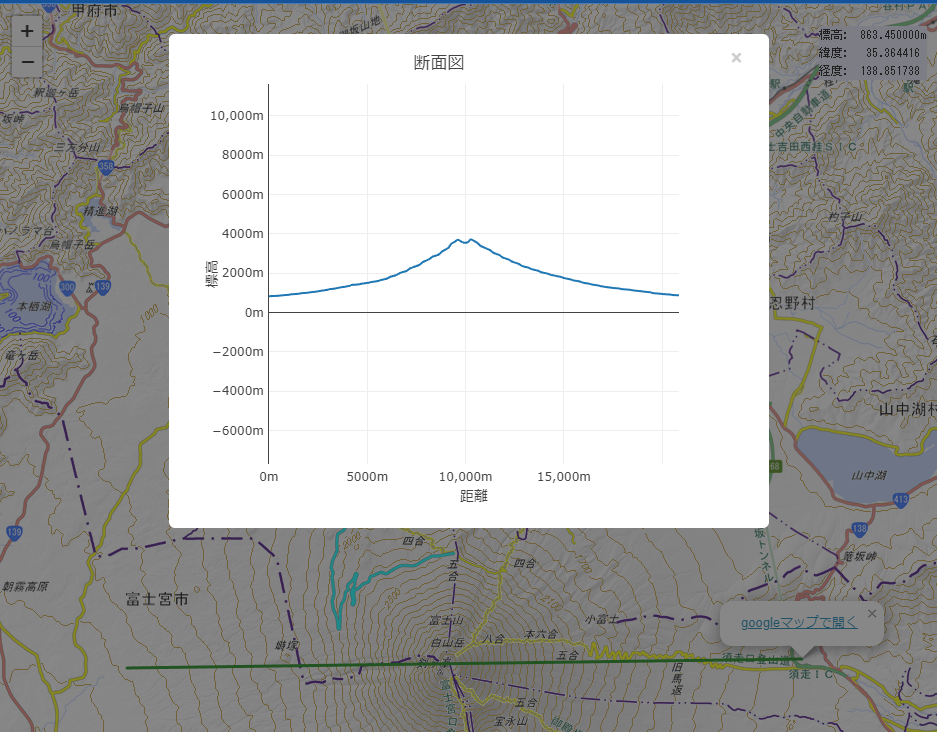
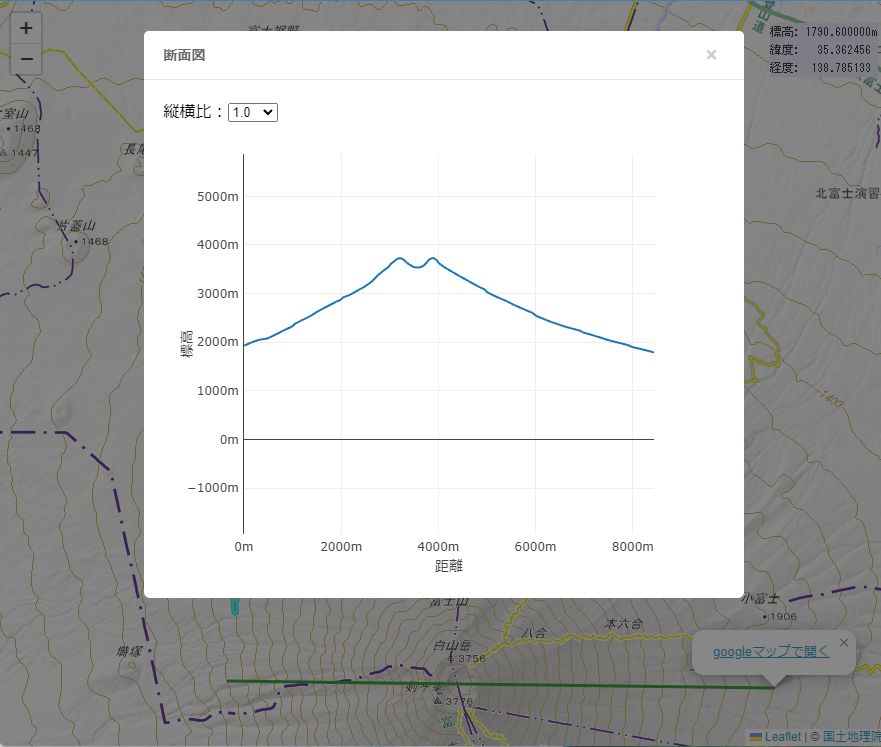
deploy github-pages

diff --git a/src/CrossSectionDialog.tsx b/src/CrossSectionDialog.tsx
@@ -1,5 +1,6 @@
 import React, { FC, useEffect, useState } from 'react';
 import Dialog from 'rc-dialog';
+import Draggable from 'react-draggable';
 import { LatLngLiteral } from 'leaflet';
 import CrossSectionGraph from './CrossSectionGraph';
 import 'rc-dialog/assets/index.css';
@@ -11,7 +12,8 @@ type propType = {
 
 const CrossSectionDialog: FC<propType> = ({ visible, setVisible }) => {
   const [points, setPoints] = useState<LatLngLiteral[]>();
-  const [ratio, setRatio] = useState<number>(1);
+  const [ratio, setRatio] = useState<string>('1.0');
+  const [disabled, setDisabled] = useState(true);
   useEffect(() => {
     // subscribe event
     document.addEventListener('showDialog', showDialog);
@@ -22,7 +24,7 @@ const CrossSectionDialog: FC<propType> = ({ visible, setVisible }) => {
   });
 
   async function showDialog(data: CustomEvent<LatLngLiteral[]>) {
-    setRatio(1);
+    setRatio('1.0');
     setPoints(data.detail);
     setVisible(true);
   }
@@ -39,13 +41,34 @@ const CrossSectionDialog: FC<propType> = ({ visible, setVisible }) => {
         maskAnimation="fade"
         onClose={onToggleDialog}
         forceRender
+        title={
+          <div
+            style={{
+              width: '100%',
+              cursor: 'pointer',
+            }}
+            onMouseOver={() => {
+              if (disabled) {
+                setDisabled(false);
+              }
+            }}
+            onMouseOut={() => {
+              setDisabled(true);
+            }}
+          >
+            断面図
+          </div>
+        }
+        modalRender={(modal) => (
+          <Draggable disabled={disabled}>{modal}</Draggable>
+        )}
       >
         <div>
           縦横比：
           <select
             id="ratio"
             value={ratio}
-            onChange={(e) => setRatio(Number.parseInt(e.target.value))}
+            onChange={(e) => setRatio(e.target.value)}
           >
             <option value="1.0">1.0</option>
             <option value="2.0">2.0</option>
@@ -60,7 +83,9 @@ const CrossSectionDialog: FC<propType> = ({ visible, setVisible }) => {
             <option value="50.0">50.0</option>
           </select>
         </div>
-        {points && <CrossSectionGraph points={points} ratio={ratio} />}
+        {points && (
+          <CrossSectionGraph points={points} ratio={Number.parseInt(ratio)} />
+        )}
       </Dialog>
     </>
   );

diff --git a/src/CrossSectionGraph.tsx b/src/CrossSectionGraph.tsx
@@ -63,7 +63,6 @@ const CrossSectionGraph: FC<propType> = ({ points, ratio }) => {
               t: 30,
               pad: 4,
             },
-            title: '断面図',
             xaxis: {
               title: '距離',
               ticksuffix: 'm',

diff --git a/README.md b/README.md
@@ -1,3 +1,7 @@
 # 地図で選択した2点の断面図を表示する
 
+https://murasuke.github.io/map-cross-section-view/
+
 ![img10](./img/img10.png)
+
+
